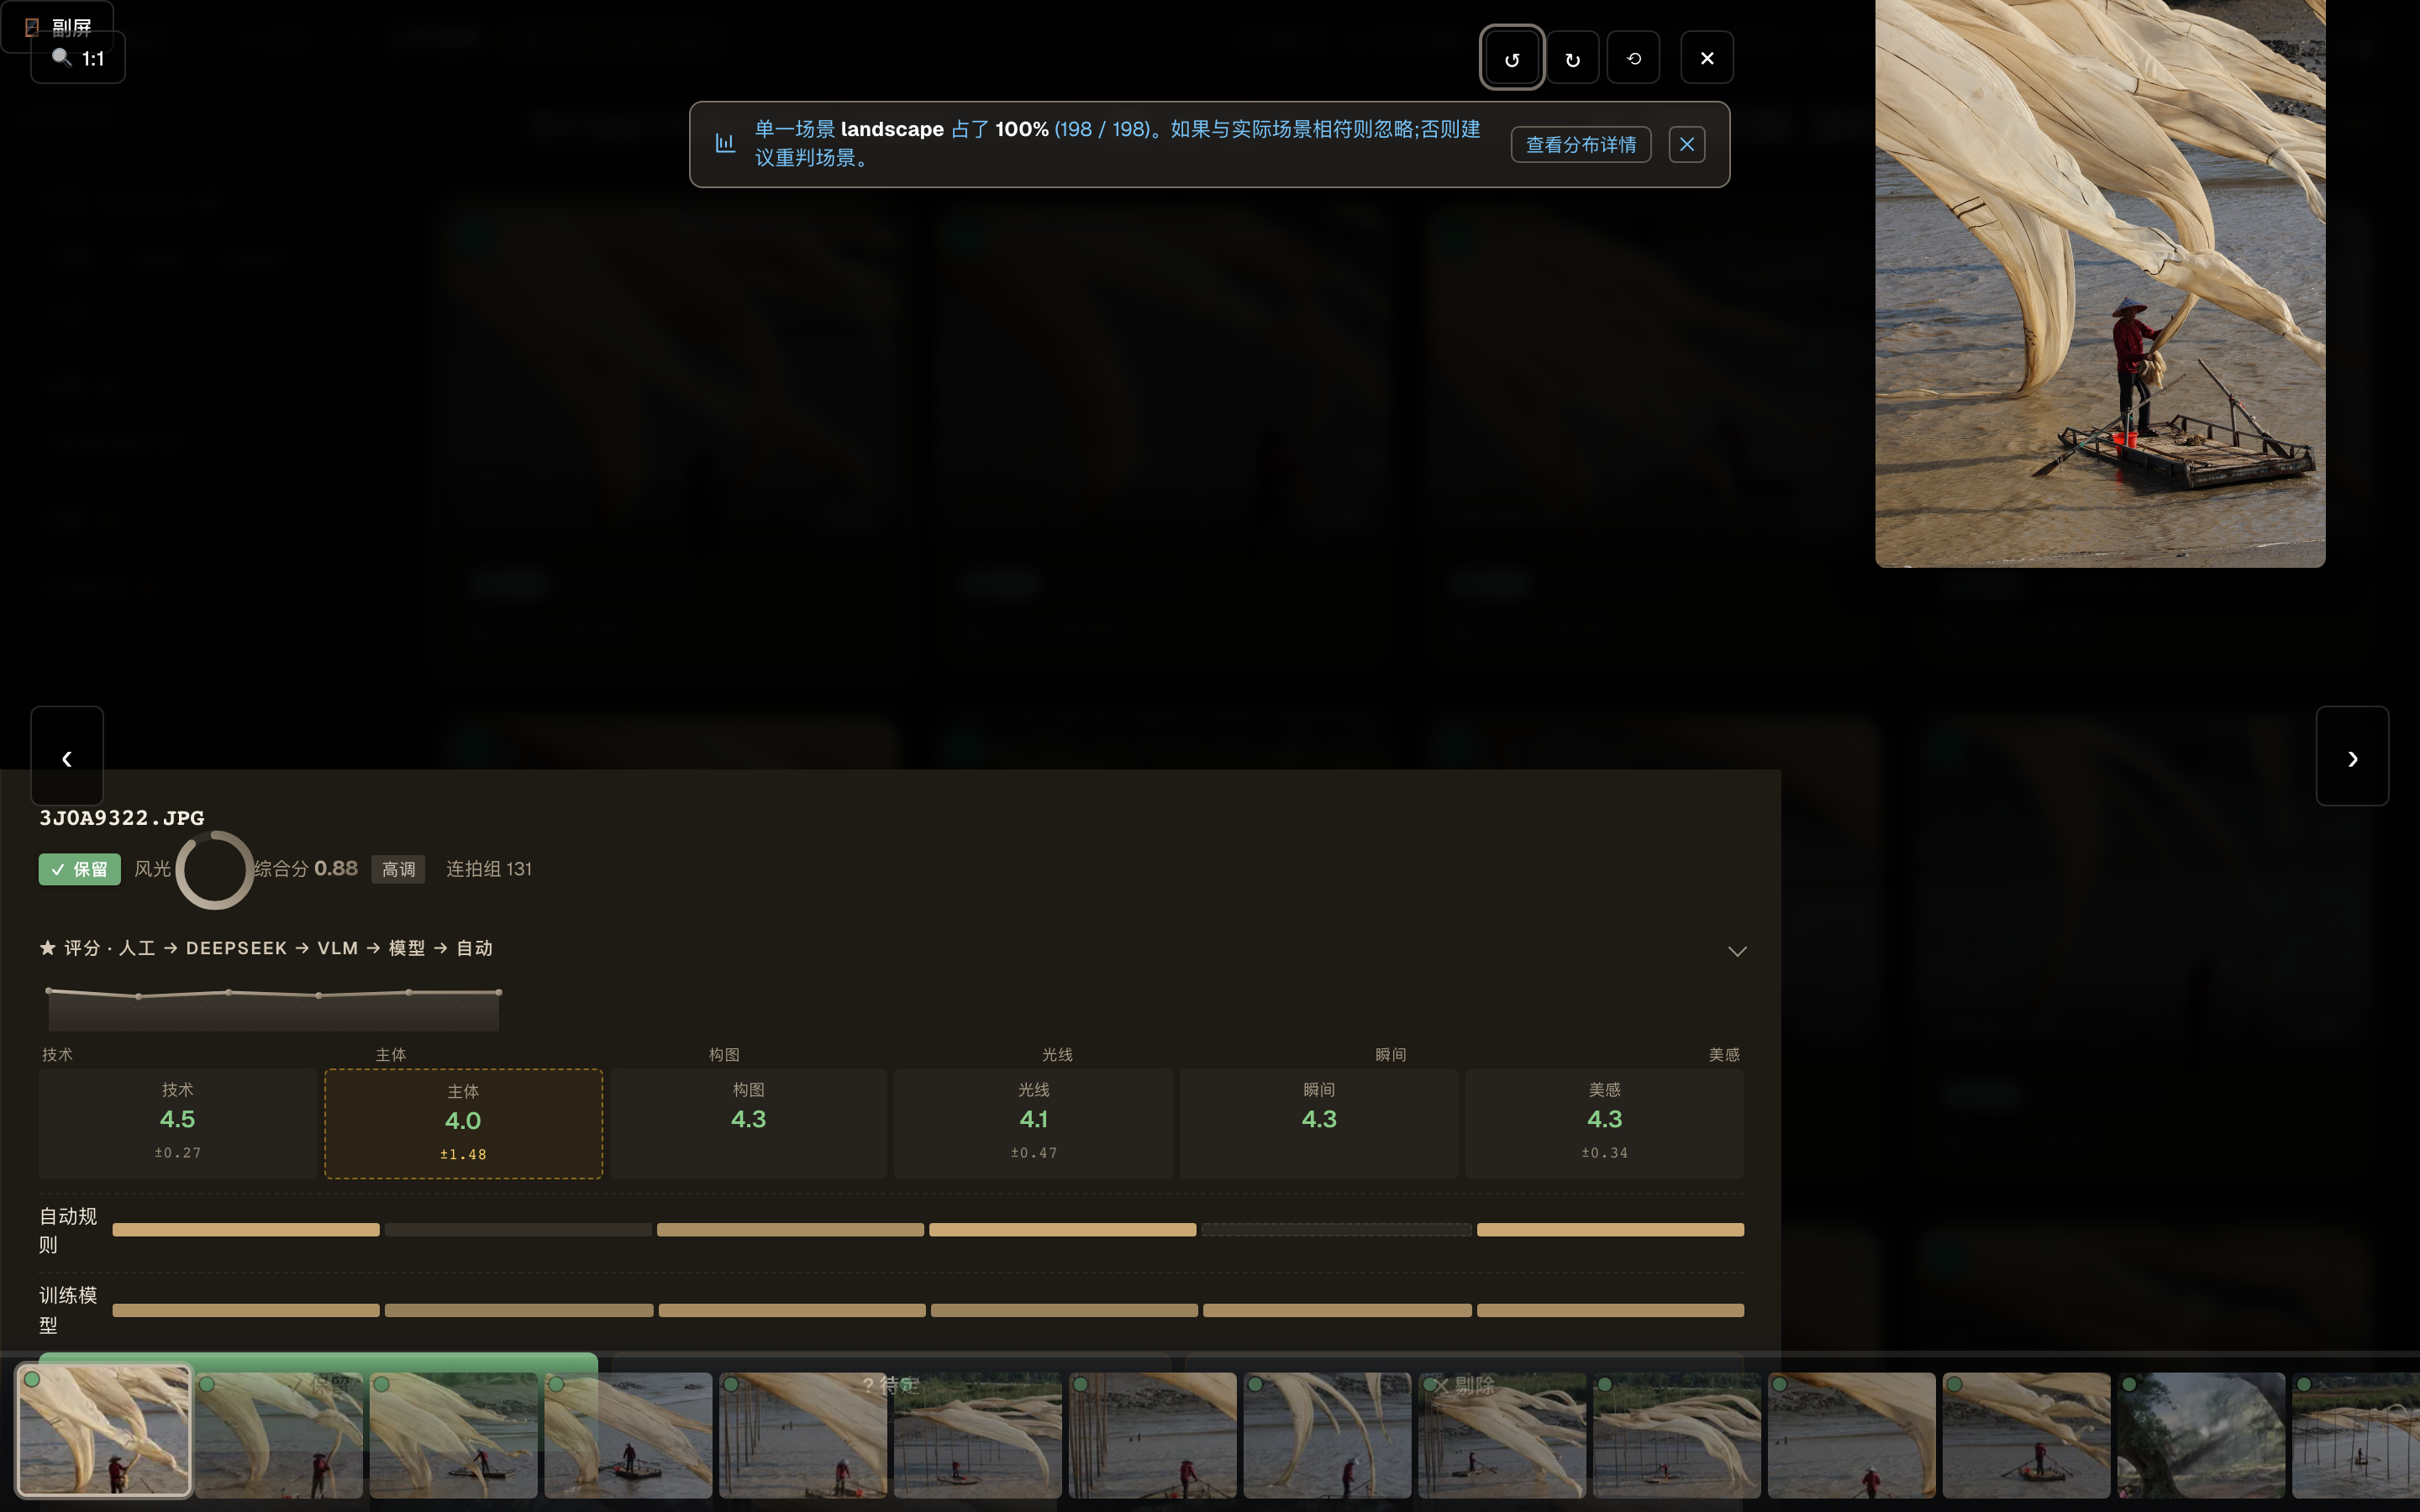
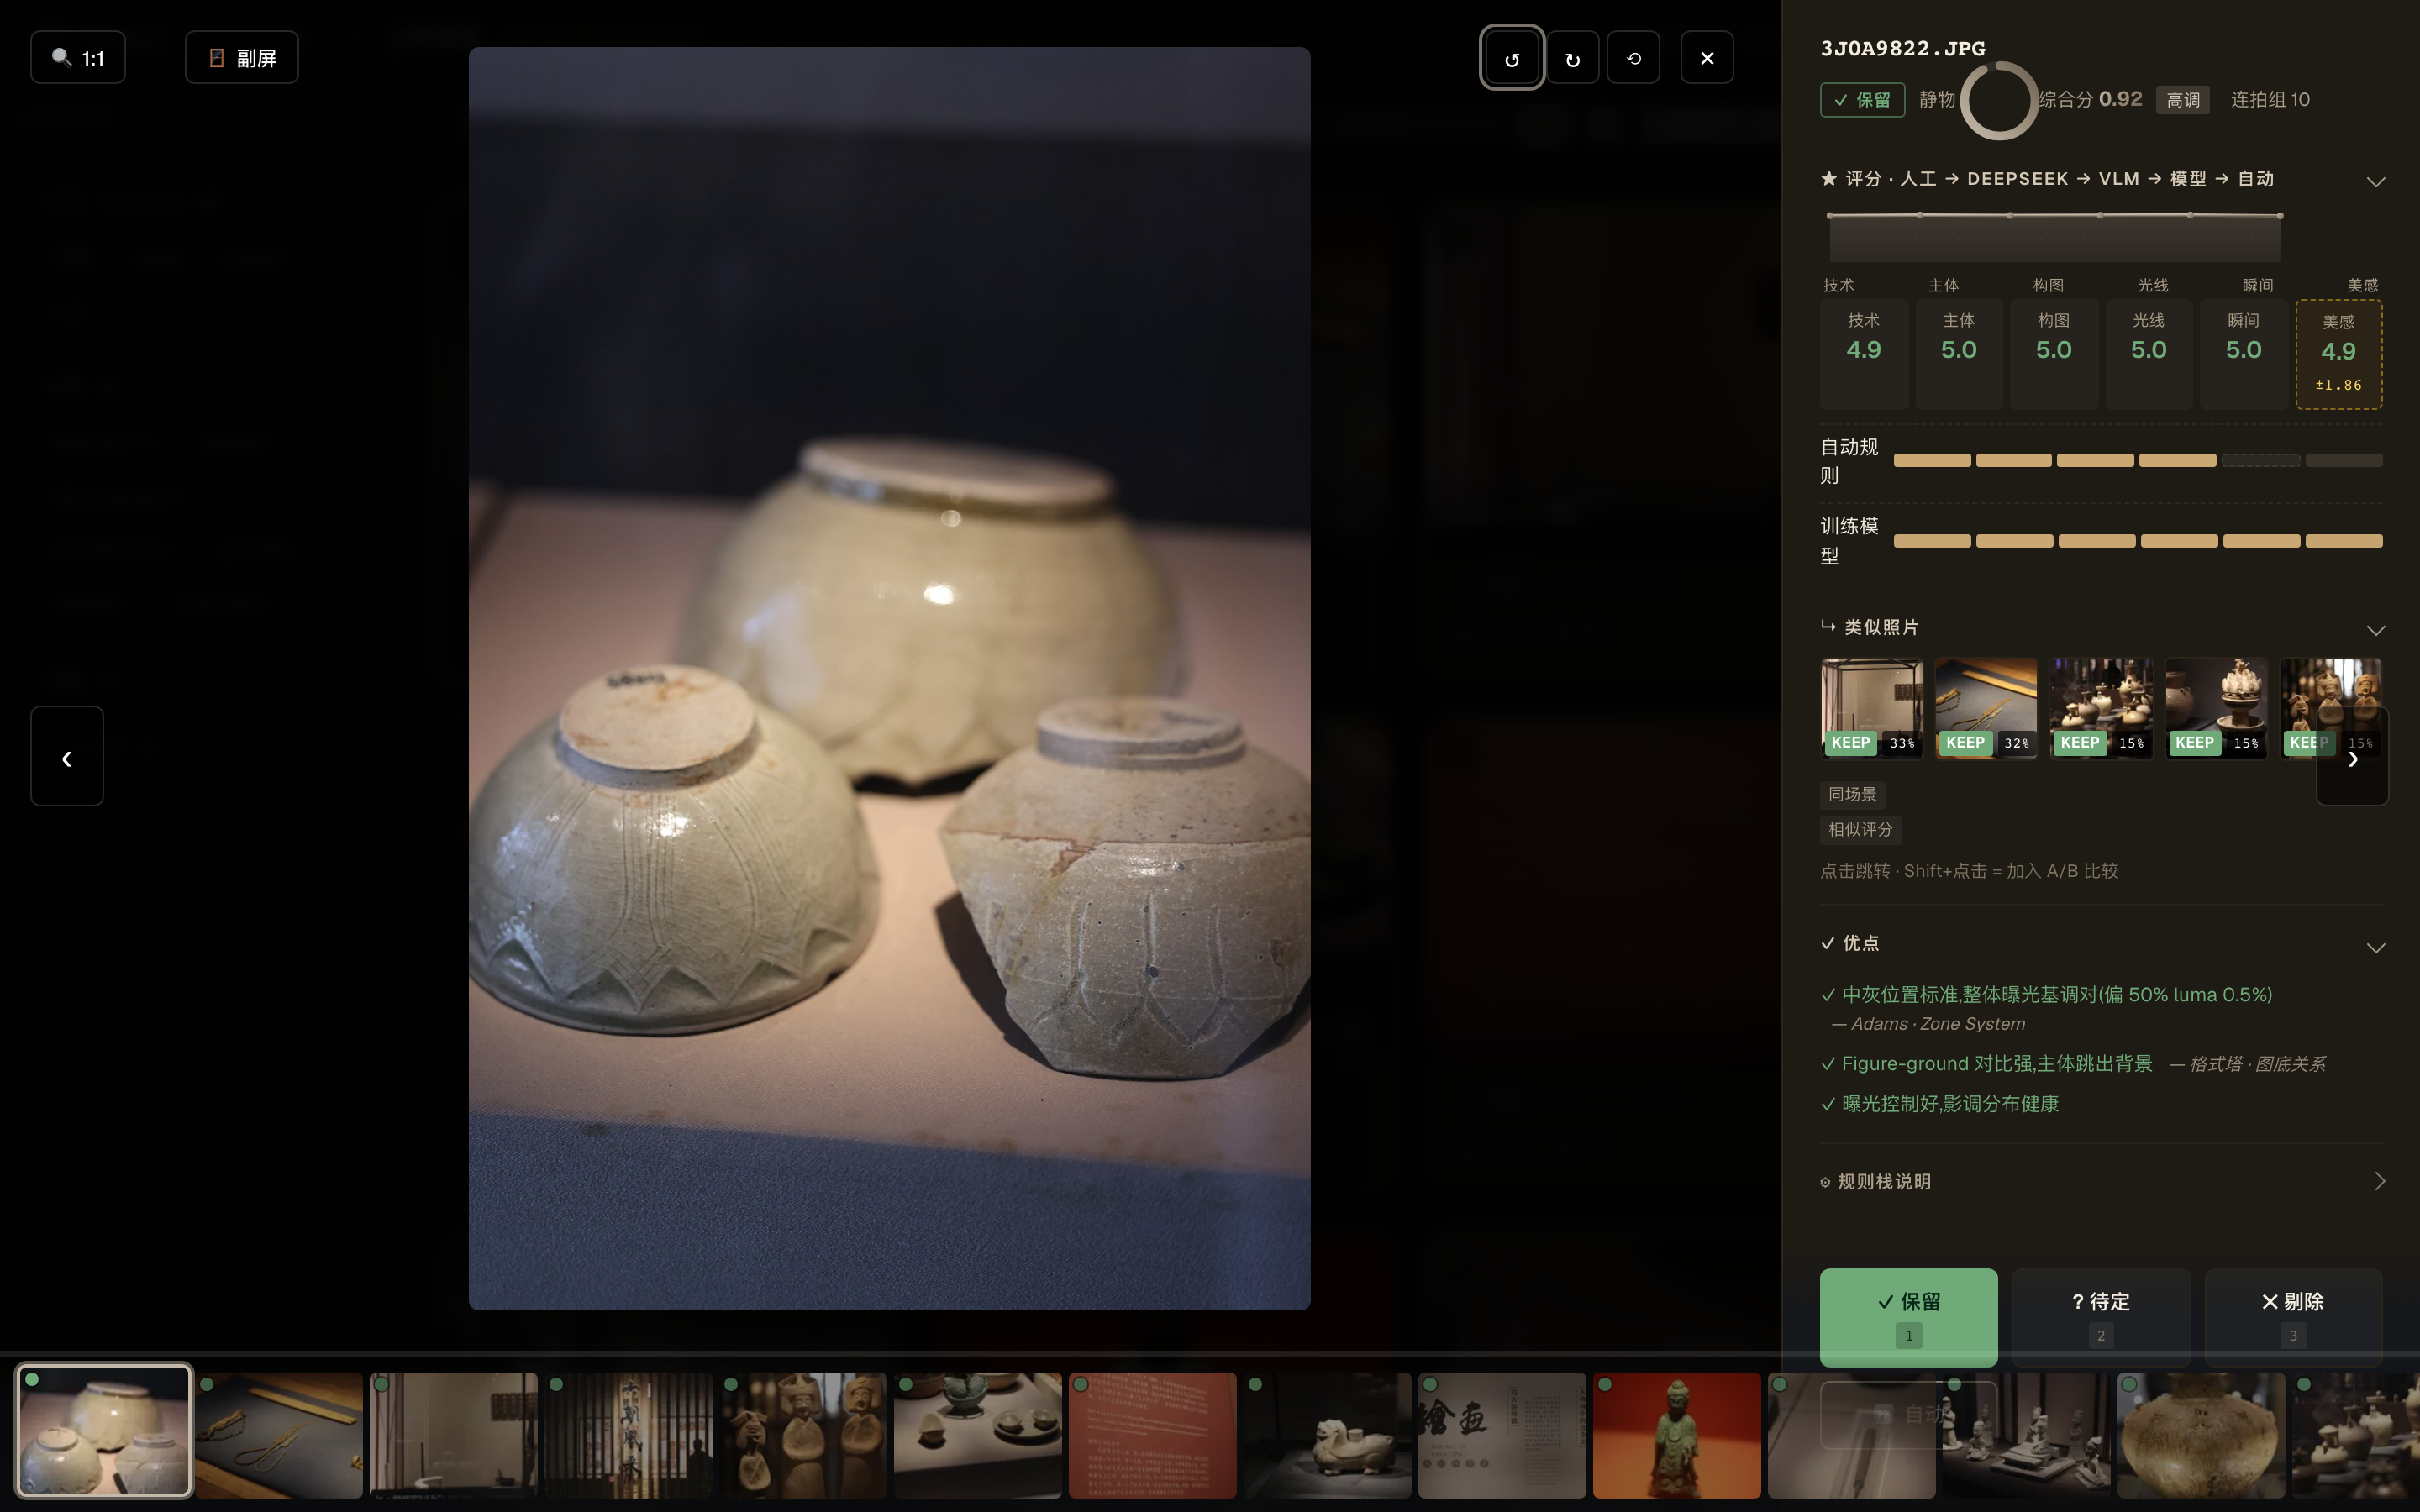
docs(v2.8): real-machine screenshots + README v1.0–v2.8 changelog
- Replace 01-results-grid + 03-lightbox with real-machine shots from a
  pixcull run on Nanjing Six-Dynasties Museum artifact photos (non-portrait,
  non-private), in the post-v2.8 editorial-warm dark UI: subtraction cards,
  outline decision badges, content-first lightbox with real thumbnails.
- README.md + modelscope/README.md "What's new" now span v1.0 → v2.8
  (rescorer / bias-audit · video+reel pipeline · personalisation / NL search /
  burst-fold / VLM caption · CLIP near-dup fold · contact-sheet PDF ·
  v2.8 UI subtraction + freeze fix).

diff --git a/README.md b/README.md
@@ -52,6 +52,33 @@
 
 ## What's new
 
+**v2.8** — UI/UX **subtraction** pass: grid cards shed the badge wall, decision
+badges go **outline** (not solid colour fills), the lightbox gains an **`i`
+"zen" toggle** (photo claims the full viewport), header stats use progressive
+disclosure. Editorial restraint after Linear / Narrative Select. See
+[`docs/DESIGN-REFLECTION-v2.8.md`](docs/DESIGN-REFLECTION-v2.8.md).
+
+**v2.6** — CLIP **visual near-duplicate fold** (catches the re-shot composition
+that time-bucketed bursts miss; ≈N badge → side-by-side compare) + lightbox-
+freeze & thumbnail-starvation stability fixes.
+
+**v2.5** — single-file frontend split into a **build artifact**
+(`templates/src` + `make results-html`) · **contact-sheet / client-proof PDF**
+export (`pixcull contact-sheet`).
+
+**v2.4** — intelligence + workflow: **personalisation-from-corrections**
+(threshold shift learned from your edits) · keyboard-first cull loop ·
+**natural-language semantic search** (CLIP) · audio-threshold calibration
+(laughter recall 0.25→0.85) · burst **"collapse to peak"** + ⧉N stack · true
+**VLM best-frame caption** (opt-in BLIP).
+
+**v2.0–v2.3** — **video culling + reel pipeline** (temporal scoring / shake-blur
+cull / audio-event tagging / GoPro·DJI GPMF / reel auto-assembly + export
+presets) · **editorial-warm** rebrand (espresso + brass, vendored Geist).
+
+**v1.0** — learned **rescorer** · **bias-audit dashboard** · per-axis
+**attribution heatmap**.
+
 **v0.9** *(in flight)* — Brand identity refresh (signature gradient
 + logo redo + serif accent) · Hero reveal "first 2 seconds" signature
 moment · soft-bounce motion curve project-wide · ⌘K command palette

diff --git a/modelscope/README.md b/modelscope/README.md
@@ -54,8 +54,20 @@ tasks:
 完整源码 + iOS 伴侣 App + Lightroom 插件,均在 GitHub:
 **[github.com/ChrisChen667788/pixcull](https://github.com/ChrisChen667788/pixcull)**
 
-## v0.7 → v0.9 主要更新
+## v0.7 → v2.8 主要更新
 
+- **v2.8**:UI/UX **减法重构** — 网格卡片去徽章墙 · 决策徽章**描边化**(不再
+  实心色块)· lightbox **`i` 键 zen** 全宽看图 · 顶栏渐进披露(对标 Linear /
+  Narrative Select 克制美学)
+- **v2.6**:CLIP **视觉近重复折叠**(跨连拍时间的"重拍同构图"也能折成一张代表
+  + ≈N 并排比较)· lightbox 卡死 + 缩略图饥饿冻结修复
+- **v2.5**:单文件前端拆为**构建产物** · **联系表 / 客户样片 PDF 导出**
+- **v2.4**:从纠正中学习的**个性化阈值** · 键盘优先选片闭环 · **自然语言语义
+  搜索**(CLIP)· 音频阈值校准(笑声召回 0.25→0.85)· 连拍**折叠成堆** + ⧉N ·
+  真 **VLM 最佳帧字幕**(opt-in BLIP)
+- **v2.0–v2.3**:**视频审片 + reel 选段流水线**(时序评分 / shake-blur / 音频
+  事件标注 / GoPro·DJI GPMF / reel 自动拼装 + 导出预置)· editorial-warm 重塑
+- **v1.0**:学习**重打分器** · **偏见审计 dashboard** · 每轴**归因热力图**
 - **v0.9**(进行中):全产品 signature soft-bounce 动效 · `/results` 2 秒
   hero reveal · brand identity 重做(渐变 + 新 logo + Charter serif accent)
   · ⌘K 命令面板(27 actions + fuzzy match)